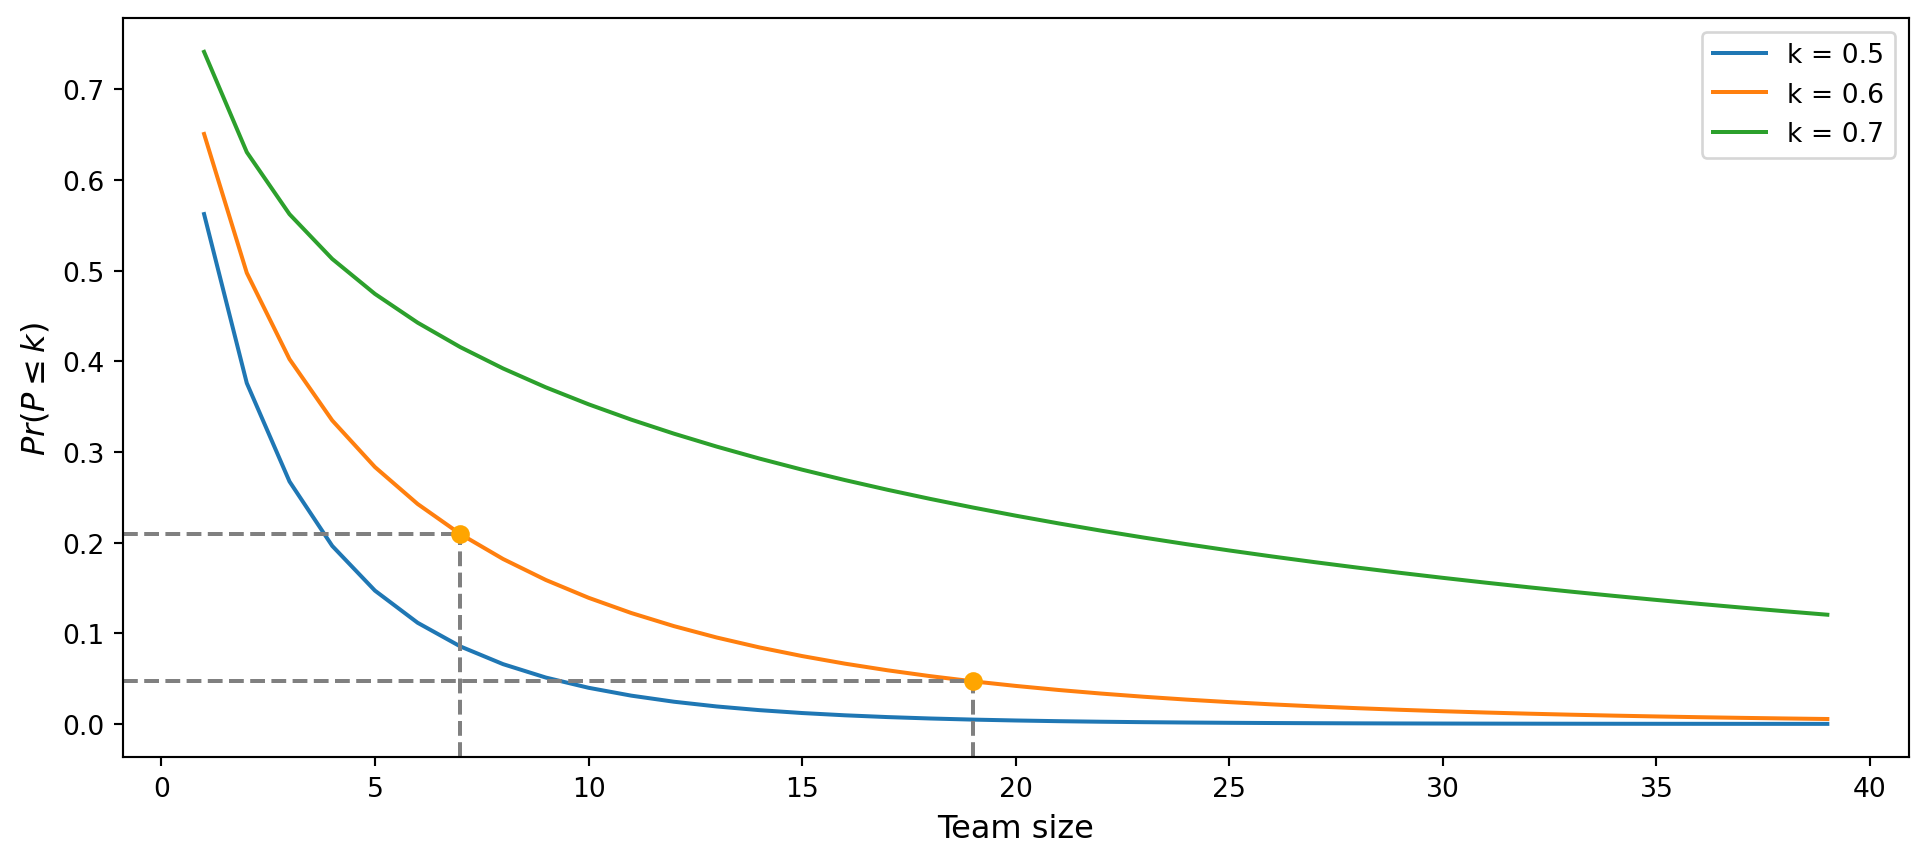
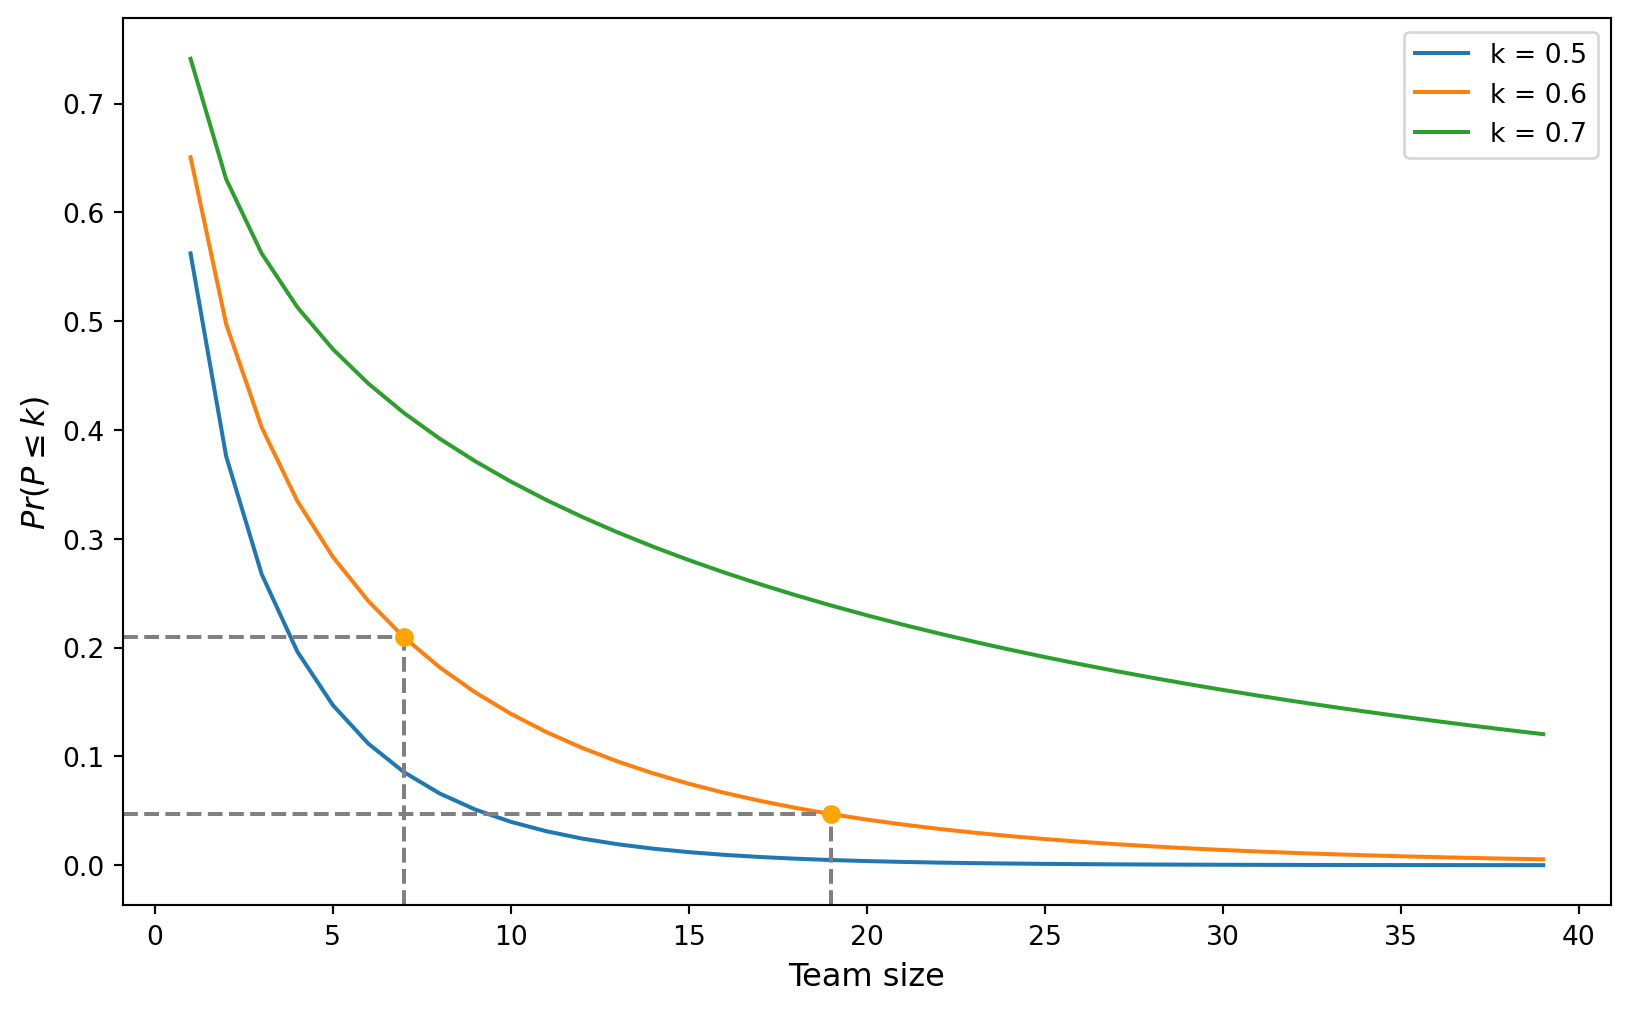
Minor

diff --git a/paper-presentation/paper-presentation.html b/paper-presentation/paper-presentation.html
@@ -447,7 +447,7 @@ René Bekker, Yoram Clapper, Witek ten Hove and Dennis Moeke
 <p><em>Small teams are more prone to lower levels of effective capacity than large teams as a result of variability in leave of absence and sick leave, whereas the differences between larger teams become smaller.</em></p>
 <div class="cell" data-execution_count="2">
 <div class="cell-output cell-output-display">
-<p><img data-src="paper-presentation_files/figure-revealjs/cell-3-output-1.png" width="964" height="432"></p>
+<p><img data-src="paper-presentation_files/figure-revealjs/cell-3-output-1.png" width="815" height="506"></p>
 </div>
 </div>
 </section></section>
